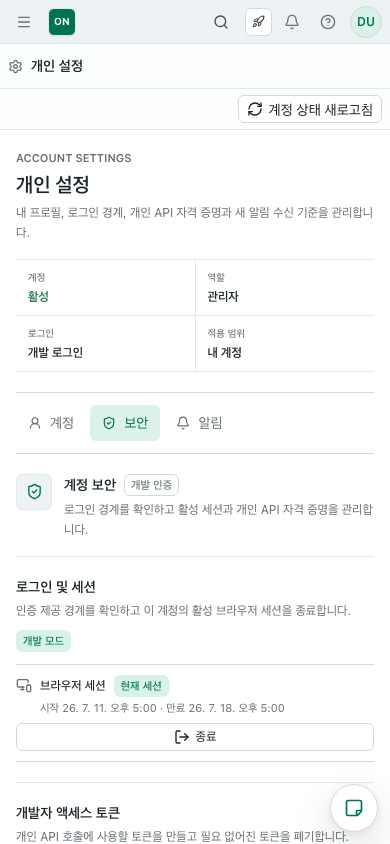
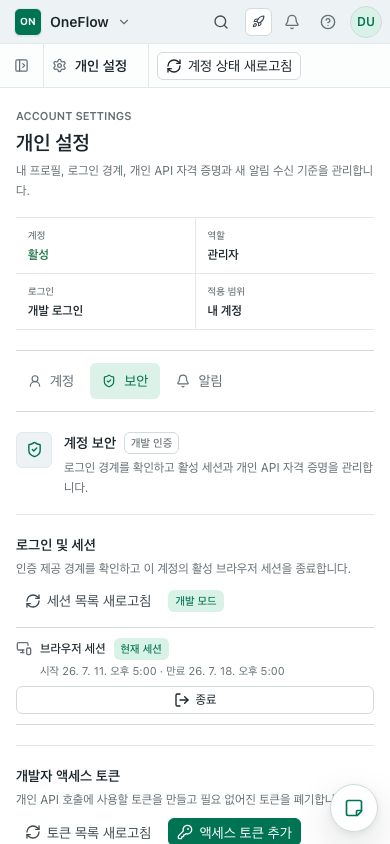
fix(settings): guard stale session revocation (#545)

diff --git a/apps/web/src/features/settings/PersonalSettingsPage.tsx b/apps/web/src/features/settings/PersonalSettingsPage.tsx
@@ -843,13 +843,23 @@ function SessionsPanel({
   const revokeSession = useRevokeAuthSession()
   const [revokeTarget, setRevokeTarget] = useState<AuthSession | null>(null)
   const revokeButtonRef = useRef<HTMLButtonElement>(null)
+  const refreshButtonRef = useRef<HTMLButtonElement>(null)
+  const hasSessionData = sessions.data !== undefined
+  const stale = sessions.isError && hasSessionData
+  const writeBlocked = sessions.isError || sessions.isFetching
+  const currentRevokeTarget = revokeTarget
+    ? sessions.data?.items.find((session) => session.id === revokeTarget.id) ?? null
+    : null
+  const revokeTargetUnavailable =
+    revokeTarget !== null && hasSessionData && !writeBlocked && currentRevokeTarget === null
+  const revokeActionBlocked = writeBlocked || revokeTargetUnavailable
 
   const revoke = async () => {
-    if (!revokeTarget) return
+    if (!currentRevokeTarget || revokeActionBlocked) return
     try {
       await revokeSession.mutateAsync({
-        id: revokeTarget.id,
-        isCurrent: revokeTarget.is_current,
+        id: currentRevokeTarget.id,
+        isCurrent: currentRevokeTarget.is_current,
       })
       setRevokeTarget(null)
     } catch {
@@ -865,9 +875,31 @@ function SessionsPanel({
         framed={false}
         className="border-b border-of-border-subtle p-0 pb-5 sm:p-0 sm:pb-6"
         actions={
-        <Badge variant={supported ? 'accent' : 'outline'}>
-          {auth?.auth_mode === 'oidc' ? 'SSO (OIDC)' : '개발 모드'}
-        </Badge>
+          <div className="flex min-w-0 flex-wrap items-center gap-2">
+            {supported ? (
+              <Button
+                ref={refreshButtonRef}
+                type="button"
+                size="sm"
+                variant="ghost"
+                aria-label="세션 목록 새로고침"
+                aria-disabled={sessions.isFetching}
+                onClick={() => {
+                  if (!sessions.isFetching) void sessions.refetch()
+                }}
+              >
+                <RefreshCw
+                  size={14}
+                  aria-hidden="true"
+                  className={cn(sessions.isFetching && 'animate-spin')}
+                />
+                세션 목록 새로고침
+              </Button>
+            ) : null}
+            <Badge variant={supported ? 'accent' : 'outline'}>
+              {auth?.auth_mode === 'oidc' ? 'SSO (OIDC)' : '개발 모드'}
+            </Badge>
+          </div>
         }
       >
       {authError ? (
@@ -917,20 +949,58 @@ function SessionsPanel({
             </p>
           </div>
         </div>
-      ) : sessions.isPending ? (
+      ) : (
+        <>
+          {stale ? (
+            <div
+              className="mb-3 flex min-w-0 flex-col gap-2 border border-of-warning/35 bg-of-warning/10 px-3 py-2.5 sm:flex-row sm:items-center sm:justify-between"
+              role="alert"
+            >
+              <div className="min-w-0">
+                <p className="text-xs font-medium text-of-text">
+                  최신 활성 세션 목록을 불러오지 못했습니다.
+                </p>
+                <p className="mt-0.5 text-[11px] leading-5 text-of-muted">
+                  마지막으로 확인한 세션을 표시합니다. 목록을 복구할 때까지 세션 종료는
+                  중단됩니다.
+                </p>
+              </div>
+              <Button
+                type="button"
+                size="sm"
+                variant="outline"
+                className="w-full shrink-0 sm:w-auto"
+                aria-label="세션 목록 다시 시도"
+                disabled={sessions.isFetching}
+                onClick={() => void sessions.refetch()}
+              >
+                <RefreshCw
+                  size={13}
+                  aria-hidden="true"
+                  className={cn(sessions.isFetching && 'animate-spin')}
+                />
+                세션 목록 다시 시도
+              </Button>
+            </div>
+          ) : null}
+          {sessions.isPending && !sessions.data ? (
         <div className="space-y-2" aria-label="세션 목록을 불러오는 중">
           <div className="h-12 animate-pulse rounded-of bg-of-subtle" />
           <div className="h-12 animate-pulse rounded-of bg-of-subtle" />
         </div>
-      ) : sessions.isError ? (
+          ) : !sessions.data ? (
         <div className="flex flex-wrap items-center justify-between gap-2 text-xs">
           <p className="text-of-danger">활성 세션을 불러오지 못했습니다.</p>
-          <Button size="sm" variant="outline" onClick={() => void sessions.refetch()}>
+          <Button
+            size="sm"
+            variant="outline"
+            disabled={sessions.isFetching}
+            onClick={() => void sessions.refetch()}
+          >
             다시 시도
           </Button>
         </div>
-      ) : (
-        <>
+          ) : (
           <ul className="divide-y divide-of-border border-y border-of-border">
             {sessions.data.items.map((session) => (
               <li
@@ -957,9 +1027,10 @@ function SessionsPanel({
                 <Button
                   size="sm"
                   variant="outline"
-                  disabled={revokeSession.isPending}
+                  disabled={writeBlocked || revokeSession.isPending}
                   aria-label={session.is_current ? '현재 세션 종료' : `${formatDateTime(session.created_at)} 세션 종료`}
                   onClick={(event) => {
+                    if (writeBlocked) return
                     revokeButtonRef.current = event.currentTarget
                     revokeSession.reset()
                     setRevokeTarget(session)
@@ -970,6 +1041,7 @@ function SessionsPanel({
               </li>
             ))}
           </ul>
+          )}
         </>
       )}
       </SettingsSection>
@@ -982,6 +1054,7 @@ function SessionsPanel({
           }
         }}
         returnFocusRef={revokeButtonRef}
+        fallbackFocusRef={refreshButtonRef}
         title={revokeTarget?.is_current ? '현재 세션을 종료할까요?' : '브라우저 세션을 종료할까요?'}
         description={
           revokeTarget?.is_current
@@ -989,6 +1062,14 @@ function SessionsPanel({
             : '선택한 브라우저는 즉시 로그아웃되며 해당 세션으로 더 이상 접근할 수 없습니다.'
         }
         pending={revokeSession.isPending}
+        actionDisabled={revokeActionBlocked}
+        actionDisabledMessage={
+          revokeSession.isError && sessions.isFetching
+            ? undefined
+            : revokeTargetUnavailable
+              ? '이 세션은 최신 목록에서 더 이상 활성 상태가 아닙니다. 확인 창을 닫고 목록을 확인하세요.'
+              : '최신 세션 목록을 복구한 뒤 이 세션을 종료할 수 있습니다.'
+        }
         error={revokeSession.isError ? '세션을 종료하지 못했습니다.' : null}
         actionLabel="세션 종료"
         pendingLabel="종료 중…"

diff --git a/apps/web/src/features/auth/api.ts b/apps/web/src/features/auth/api.ts
@@ -104,8 +104,10 @@ export function useRevokeAuthSession() {
       if (variables.isCurrent) {
         clearIdentityBoundCache(queryClient)
         window.location.assign('/login')
-        return
       }
+    },
+    onSettled: (_, error, variables) => {
+      if (variables.isCurrent && !error) return
       void queryClient.invalidateQueries({ queryKey: ['auth-sessions'] })
     },
   })
